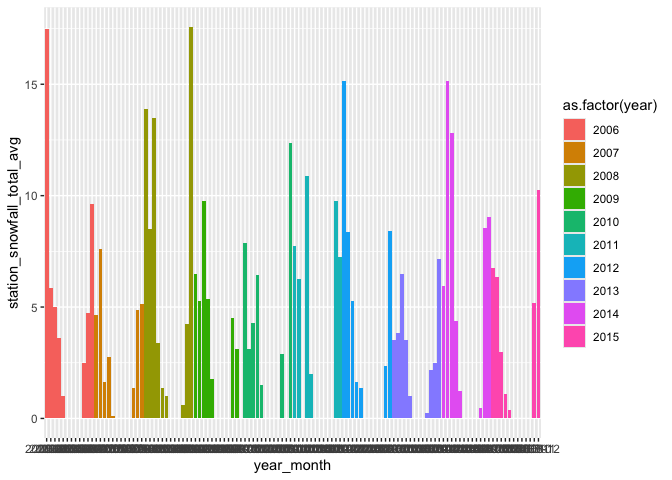
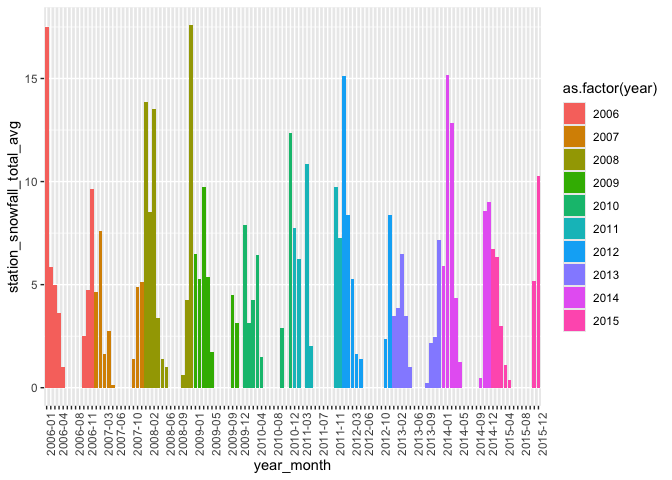
more snowfall

diff --git a/DM_analysis/weather.md b/DM_analysis/weather.md
@@ -345,7 +345,9 @@ reduced_weather |>
   summarize(station_snowfall_total_avg = mean(station_snowfall_total, na.rm = TRUE)) |> 
   mutate(year_month = paste(year, month, sep = "-")) |> 
   ggplot(aes(x = year_month, y = station_snowfall_total_avg, fill = as.factor(year))) + 
-  geom_bar(stat = "identity")
+  geom_bar(stat = "identity") + 
+  theme(axis.text.x = element_text(angle = 90, hjust = 1)) + 
+  scale_x_discrete(guide = guide_axis(check.overlap = TRUE))
 ```
 
     ## `summarise()` has grouped output by 'NAME', 'year'. You can override using the
